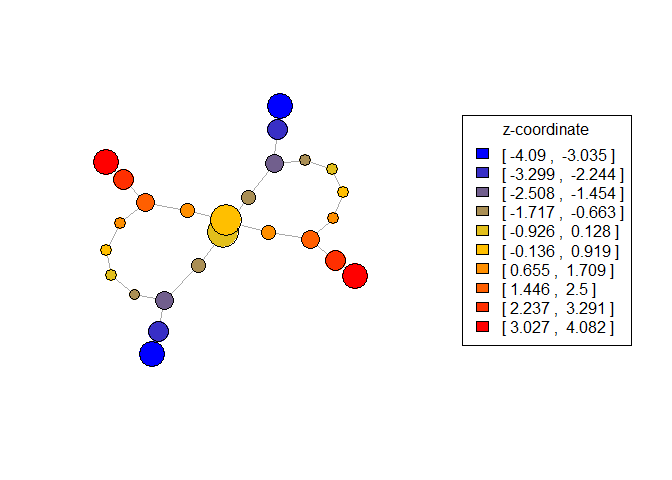
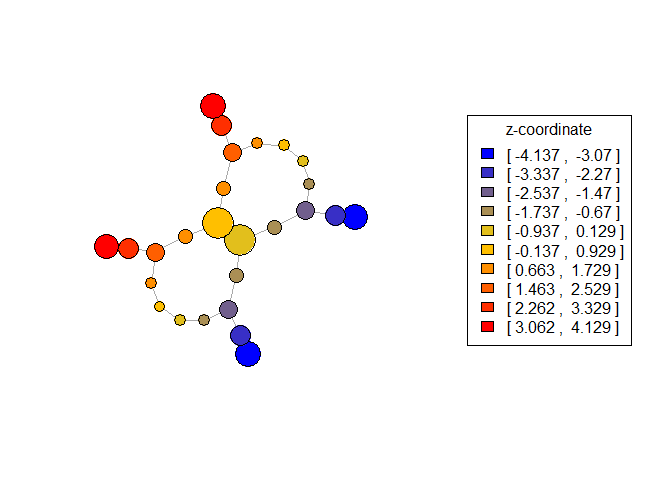
add igraph conversion to readme

diff --git a/README.md b/README.md
@@ -44,7 +44,7 @@ Consider a function
 f: P \to \mathbb{R}
 ```
 
-Cover $\mathbb{R}$ in a set of intervals $\{I_i\}_{i=1}^n$, so that
+Cover $\mathbb{R}$ in a set of intervals $`\{I_i\}_{i=1}^n`$, so that
 every point in $P$ is contained in some level set $L_i = f^{-1}(I_i)$.
 We may then construct a graph
 
@@ -94,7 +94,7 @@ So in general, the ingredients to construct a mapper graph are
 - A cover of the codomain of the lens function
 - A clustering algorithm
 
-## Example: 1D Mapper
+## Example 1: 1D Mapper
 
 ``` r
 num_points = 5000
@@ -165,8 +165,6 @@ check_in_interval <- function(endpoints) {
 
 # each of the "cover" elements will really be a function that checks if a data point lives in it
 xcovercheck = apply(xcover, 1, check_in_interval)
-ycovercheck = apply(ycover, 1, check_in_interval)
-zcovercheck = apply(zcover, 1, check_in_interval)
 
 # build the mapper objects
 xmapper = create_mapper_object(
@@ -176,11 +174,17 @@ xmapper = create_mapper_object(
   cover_element_tests = xcovercheck,
   method = "single"
 )
-ymapper = create_mapper_object(P.data, P.dist, projy, ycovercheck, "single")
-zmapper = create_mapper_object(P.data, P.dist, projz, zcovercheck, "single")
 
 # mappeR also has a built-in 1D mapper function that will do the above for you
+ymapper = create_1D_mapper_object(P.data, P.dist, projy, ycover, "single")
+zmapper = create_1D_mapper_object(P.data, P.dist, projz, zcover, "single")
 eccentricmapper = create_1D_mapper_object(P.data, P.dist, eccentricity, eccentriccover, "single")
+
+# mappeR also has functions which will convert the mapper outputs into igraph format
+ixmapper = mapper_object_to_igraph(xmapper)
+iymapper = mapper_object_to_igraph(ymapper)
+izmapper = mapper_object_to_igraph(zmapper)
+ieccentricmapper = mapper_object_to_igraph(eccentricmapper)
 ```
 
 The vertices in each output graph below are colored according to the
@@ -189,7 +193,7 @@ number of data points in the cluster.
 
 <img src="README_files/figure-gfm/mapping_the_mapper-1.png" width="50%" /><img src="README_files/figure-gfm/mapping_the_mapper-2.png" width="50%" /><img src="README_files/figure-gfm/mapping_the_mapper-3.png" width="50%" /><img src="README_files/figure-gfm/mapping_the_mapper-4.png" width="50%" />
 
-## Example: ball mapper
+## Example 2: ball mapper
 
 By toying with the general mapper parameters, we can obtain different
 flavors of the algorithm. In the *ball mapper* flavor, we simply use the
@@ -217,9 +221,6 @@ balls1 = create_balls(data = P.data, dists = P.dist, eps = .25)
 
 # ball tester machine machine
 is_in_ball <- function(ball) {
-  balltester <- function(x) {
-    return(x %in% ball)
-  }
   return(function(x) x %in% ball)
 }
 
